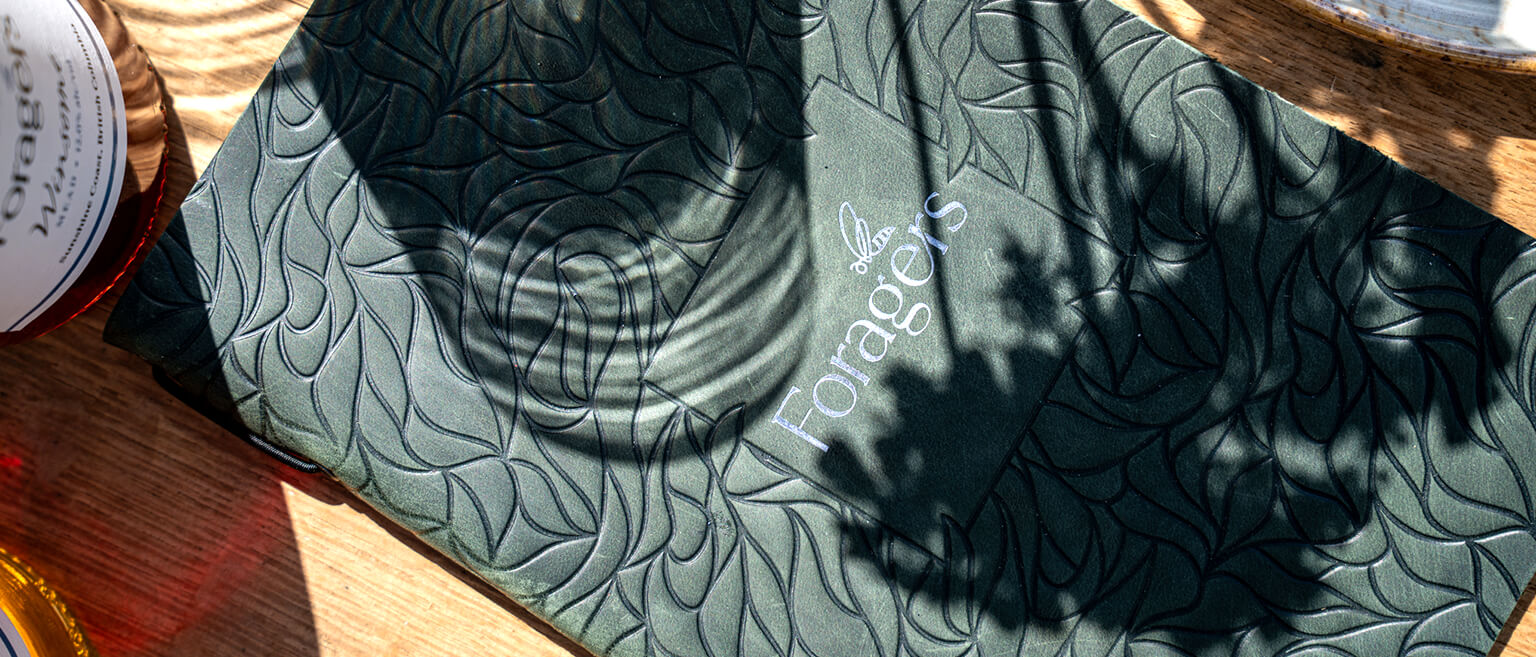
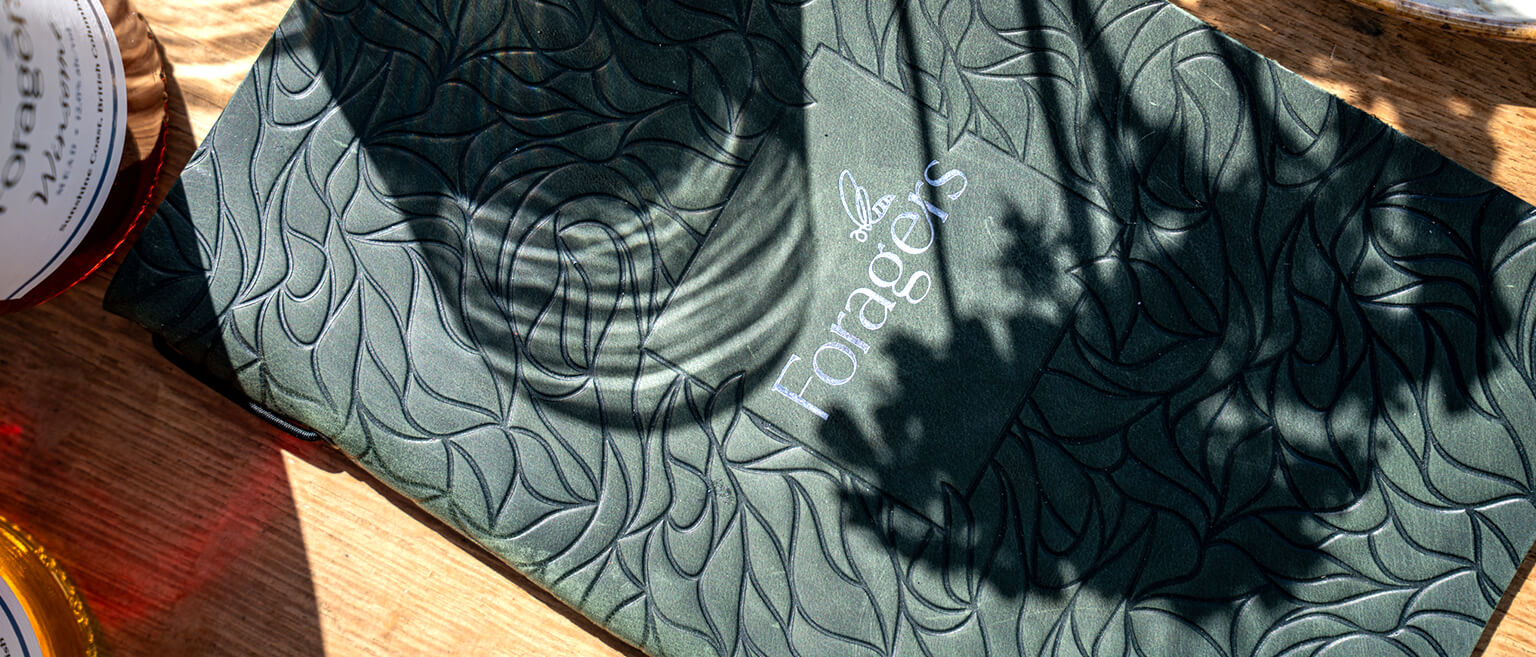
Footer image updated

diff --git a/src/styles/style.css b/src/styles/style.css
@@ -457,7 +457,7 @@ header {
 
 footer {
 	background-image: url('../assets/images/footer-bg-4.jpg');
-	background-position: left top;
+	background-position: left bottom;
 	background-repeat: no-repeat;
 	background-size: cover;
 	min-height: 800px;
